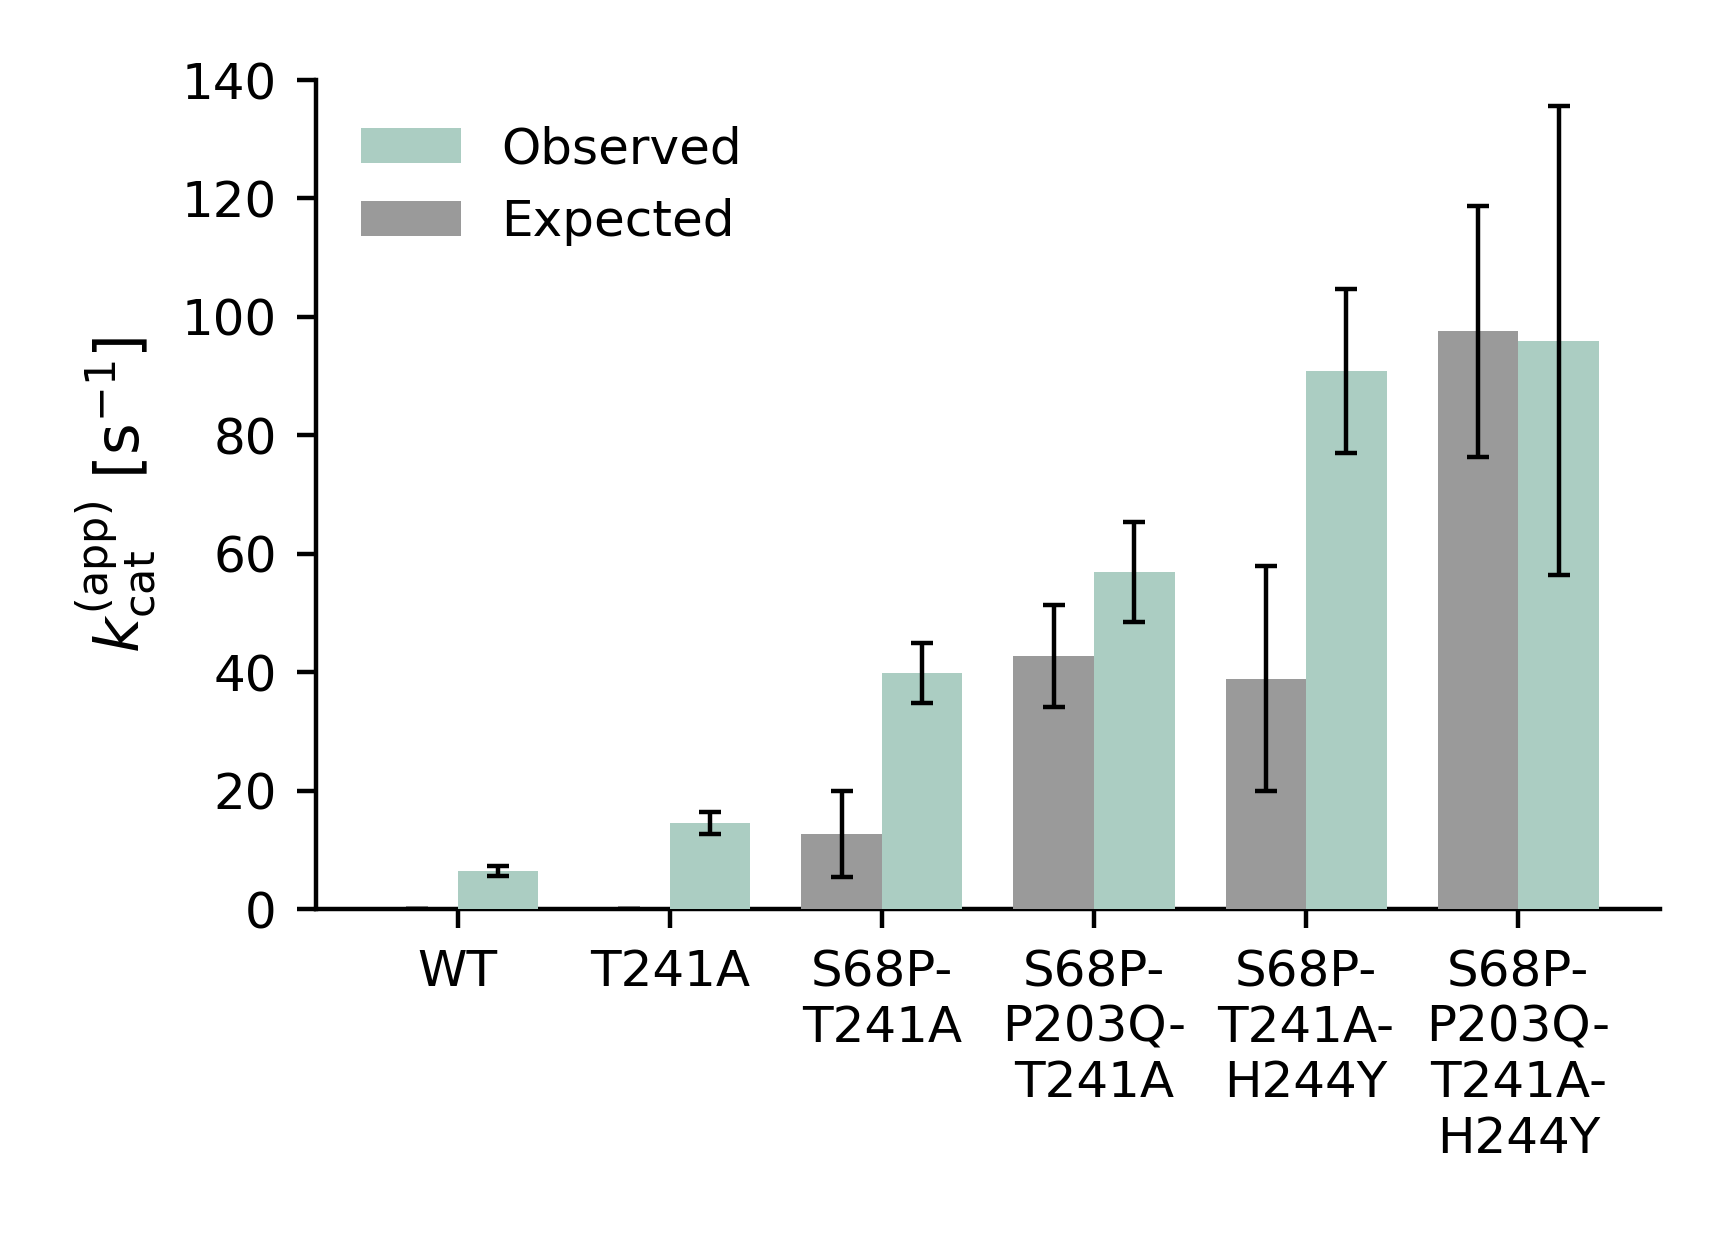
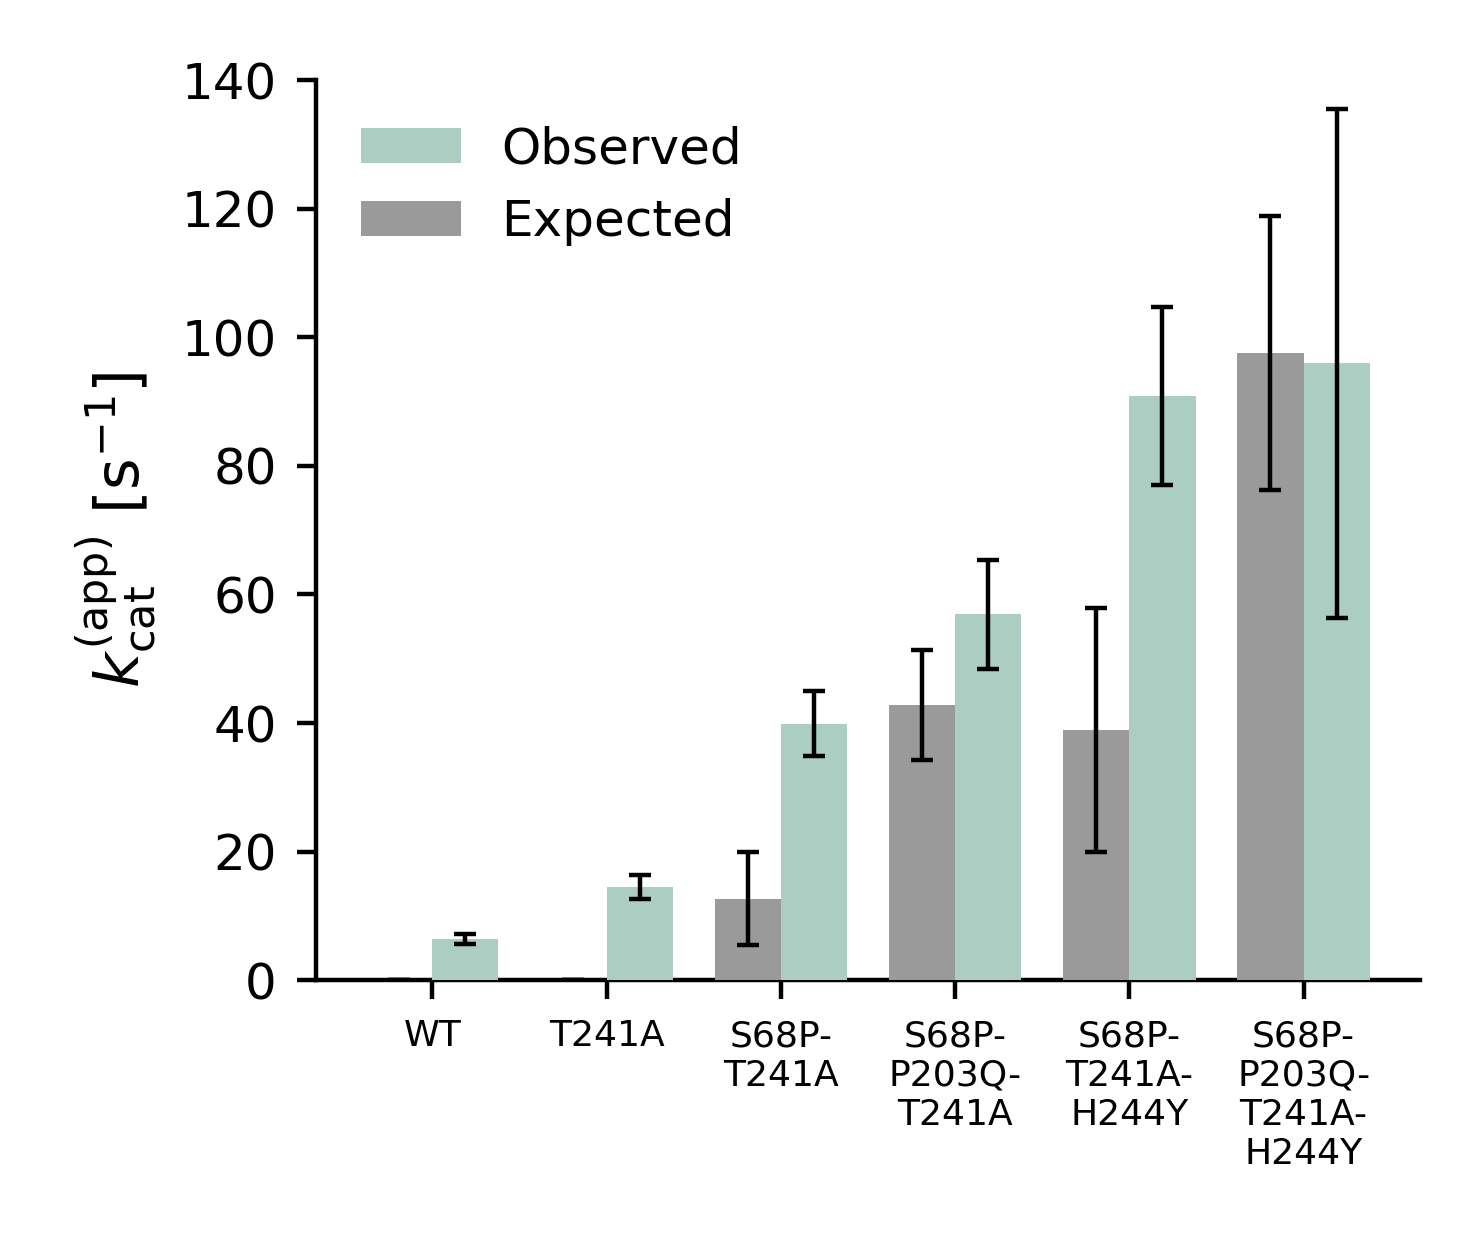
Narrow 3G, and make the variant label size actually take effect
3G goes from 4.3 to 3.7 inches wide. The names run to four lines, so at that width they needed
to come down from 9pt to 6.5 -- except that the fontsize passed to set_xticklabels was being
silently overridden by the tick_params call after it, which is why the first attempt at
shrinking them changed nothing. tick_params now runs first and sets each axis separately.

3E carried the same bug: its labels asked for 8.5pt and rendered at 9. Fixed there too, so the
figure is very slightly different from the one committed in 25e7106.

Changed region(s): [[0.0932, 0.0306, 0.9635, 0.95], [0.0311, 0.2758, 0.1243, 0.5516]]

diff --git a/03_analysis/Figure_3/3G_winning_lineage_epistasis/1_plot_lineage_epistasis.py b/03_analysis/Figure_3/3G_winning_lineage_epistasis/1_plot_lineage_epistasis.py
@@ -77,6 +77,7 @@ LINEAGE = {
 OBSERVED_COLOUR = "#ABCDC2"
 EXPECTED_COLOUR = "#9A9A9A"
 BAR_WIDTH = 0.38
+VARIANT_LABEL_SIZE = 6.5  # the names run to four lines, so they set how narrow this can go
 Y_LIMIT = 140
 Y_STEP = 20
 
@@ -144,7 +145,7 @@ def label(variant):
 
 def plot(table):
     positions = np.arange(len(table))
-    figure, ax = plt.subplots(figsize=(4.3, 3.1))
+    figure, ax = plt.subplots(figsize=(3.7, 3.1))
 
     ax.bar(positions - BAR_WIDTH / 2, table["expected_kcat_app"].fillna(0), BAR_WIDTH,
            yerr=table["expected_kcat_app_error"].fillna(0), color=EXPECTED_COLOUR,
@@ -157,9 +158,11 @@ def plot(table):
     ax.set_ylabel("$k_\\mathregular{cat}^\\mathregular{(app)}$ [s$^{-1}$]", fontsize=11)
     ax.set_ylim(0, Y_LIMIT)
     ax.set_yticks(range(0, Y_LIMIT + 1, Y_STEP))
+    # tick_params after set_xticklabels would override the size, so it goes first.
+    ax.tick_params(axis="y", labelsize=9)
+    ax.tick_params(axis="x", labelsize=VARIANT_LABEL_SIZE)
     ax.set_xticks(positions)
-    ax.set_xticklabels([label(v) for v in table["variant"]], fontsize=7.5)
-    ax.tick_params(axis="both", labelsize=9)
+    ax.set_xticklabels([label(v) for v in table["variant"]])
     ax.spines["top"].set_visible(False)
     ax.spines["right"].set_visible(False)
 

diff --git a/03_analysis/Figure_3/3E_alternative_trajectories_epistasis/1_plot_expected_against_observed_kcat.py b/03_analysis/Figure_3/3E_alternative_trajectories_epistasis/1_plot_expected_against_observed_kcat.py
@@ -66,6 +66,7 @@ DECOMPOSITIONS = {
 OBSERVED_COLOUR = "#ABCDC2"
 EXPECTED_COLOUR = "#9A9A9A"
 BAR_WIDTH = 0.38
+VARIANT_LABEL_SIZE = 8.5
 Y_LIMIT = 150
 Y_STEP = 50
 
@@ -140,9 +141,11 @@ def plot(table):
     ax.set_ylabel("$k_\\mathregular{cat}$ [s$^{-1}$]", fontsize=11)
     ax.set_ylim(0, Y_LIMIT)
     ax.set_yticks(range(0, Y_LIMIT + 1, Y_STEP))
+    # tick_params after set_xticklabels would override the size, so it goes first.
+    ax.tick_params(axis="y", labelsize=9)
+    ax.tick_params(axis="x", labelsize=VARIANT_LABEL_SIZE)
     ax.set_xticks(positions)
-    ax.set_xticklabels([label(v) for v in table["variant"]], fontsize=8.5)
-    ax.tick_params(axis="both", labelsize=9)
+    ax.set_xticklabels([label(v) for v in table["variant"]])
     ax.spines["top"].set_visible(False)
     ax.spines["right"].set_visible(False)
 
